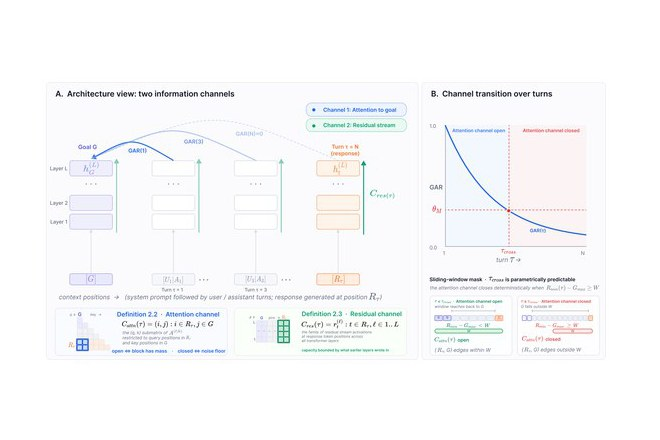
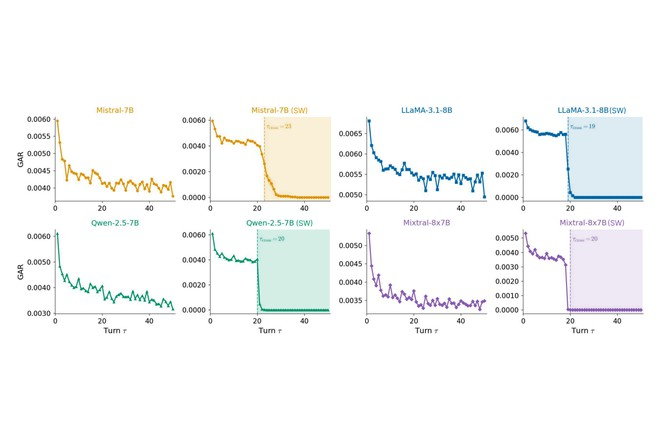
Use author-provided figures for multi-agent coordination and attention-closes thumbnails
(The previous commit b697299 only bumped the asset cache version; this
one actually replaces the two images.)

Changed region(s): [[0.0303, 0.2068, 1.0, 0.8273], [0.0909, 0.2068, 0.3636, 0.2659]]

diff --git a/index.html b/index.html
@@ -8,8 +8,8 @@
 <link rel="preconnect" href="https://fonts.googleapis.com">
 <link rel="preconnect" href="https://fonts.gstatic.com" crossorigin>
 <link href="https://fonts.googleapis.com/css2?family=EB+Garamond:ital,wght@0,400;0,500;0,600;1,400;1,500&family=Inter:wght@400;500;600&family=JetBrains+Mono:wght@400&display=swap" rel="stylesheet">
-<link rel="stylesheet" href="assets/site.css?v=6">
-<script src="assets/theme-init.js?v=6"></script>
+<link rel="stylesheet" href="assets/site.css?v=7">
+<script src="assets/theme-init.js?v=7"></script>
 </head>
 <body data-root="" data-page="home">
 
@@ -112,9 +112,9 @@
   </div>
 </div>
 
-<script src="assets/site.js?v=6"></script>
-<script src="assets/publications.js?v=6"></script>
-<script src="assets/posts.js?v=6"></script>
+<script src="assets/site.js?v=7"></script>
+<script src="assets/publications.js?v=7"></script>
+<script src="assets/posts.js?v=7"></script>
 <script>
   renderPublications(document.getElementById('selected-pubs'), { selectedOnly: true, thumbs: true });
 

diff --git a/publications.html b/publications.html
@@ -7,8 +7,8 @@
 <link rel="preconnect" href="https://fonts.googleapis.com">
 <link rel="preconnect" href="https://fonts.gstatic.com" crossorigin>
 <link href="https://fonts.googleapis.com/css2?family=EB+Garamond:ital,wght@0,400;0,500;0,600;1,400;1,500&family=Inter:wght@400;500;600&family=JetBrains+Mono:wght@400&display=swap" rel="stylesheet">
-<link rel="stylesheet" href="assets/site.css?v=6">
-<script src="assets/theme-init.js?v=6"></script>
+<link rel="stylesheet" href="assets/site.css?v=7">
+<script src="assets/theme-init.js?v=7"></script>
 </head>
 <body data-root="" data-page="publications">
 
@@ -43,8 +43,8 @@
   </div>
 </div>
 
-<script src="assets/site.js?v=6"></script>
-<script src="assets/publications.js?v=6"></script>
+<script src="assets/site.js?v=7"></script>
+<script src="assets/publications.js?v=7"></script>
 <script>
   var container = document.getElementById('all-pubs');
   var all = renderPublications(container, { groupByYear: true, thumbs: true });

diff --git a/notes/index.html b/notes/index.html
@@ -7,8 +7,8 @@
 <link rel="preconnect" href="https://fonts.googleapis.com">
 <link rel="preconnect" href="https://fonts.gstatic.com" crossorigin>
 <link href="https://fonts.googleapis.com/css2?family=EB+Garamond:ital,wght@0,400;0,500;0,600;1,400;1,500&family=Inter:wght@400;500;600&family=JetBrains+Mono:wght@400&display=swap" rel="stylesheet">
-<link rel="stylesheet" href="../assets/site.css?v=6">
-<script src="../assets/theme-init.js?v=6"></script>
+<link rel="stylesheet" href="../assets/site.css?v=7">
+<script src="../assets/theme-init.js?v=7"></script>
 </head>
 <body data-root="../" data-page="notes">
 
@@ -39,8 +39,8 @@
   </div>
 </div>
 
-<script src="../assets/site.js?v=6"></script>
-<script src="../assets/posts.js?v=6"></script>
+<script src="../assets/site.js?v=7"></script>
+<script src="../assets/posts.js?v=7"></script>
 <script>
   var list = document.getElementById('post-list');
   var filters = document.getElementById('tag-filters');

diff --git a/notes/embodied-conversational-agents.html b/notes/embodied-conversational-agents.html
@@ -8,8 +8,8 @@
 <link rel="preconnect" href="https://fonts.googleapis.com">
 <link rel="preconnect" href="https://fonts.gstatic.com" crossorigin>
 <link href="https://fonts.googleapis.com/css2?family=EB+Garamond:ital,wght@0,400;0,500;0,600;1,400;1,500&family=Inter:wght@400;500;600&family=JetBrains+Mono:wght@400&display=swap" rel="stylesheet">
-<link rel="stylesheet" href="../assets/site.css?v=6">
-<script src="../assets/theme-init.js?v=6"></script>
+<link rel="stylesheet" href="../assets/site.css?v=7">
+<script src="../assets/theme-init.js?v=7"></script>
 <style>
   .cover{margin:-26px -30px 28px;border-radius:6px 6px 0 0;overflow:hidden}
   .cover img{display:block;width:100%;border:0;border-radius:0}
@@ -326,6 +326,6 @@
   </div>
 </div>
 
-<script src="../assets/site.js?v=6"></script>
+<script src="../assets/site.js?v=7"></script>
 </body>
 </html>

diff --git a/notes/_template.html b/notes/_template.html
@@ -8,8 +8,8 @@
 <link rel="preconnect" href="https://fonts.googleapis.com">
 <link rel="preconnect" href="https://fonts.gstatic.com" crossorigin>
 <link href="https://fonts.googleapis.com/css2?family=EB+Garamond:ital,wght@0,400;0,500;0,600;1,400;1,500&family=Inter:wght@400;500;600&family=JetBrains+Mono:wght@400&display=swap" rel="stylesheet">
-<link rel="stylesheet" href="../assets/site.css?v=6">
-<script src="../assets/theme-init.js?v=6"></script>
+<link rel="stylesheet" href="../assets/site.css?v=7">
+<script src="../assets/theme-init.js?v=7"></script>
 </head>
 <body data-root="../" data-page="notes">
 
@@ -64,6 +64,6 @@
   </div>
 </div>
 
-<script src="../assets/site.js?v=6"></script>
+<script src="../assets/site.js?v=7"></script>
 </body>
 </html>
